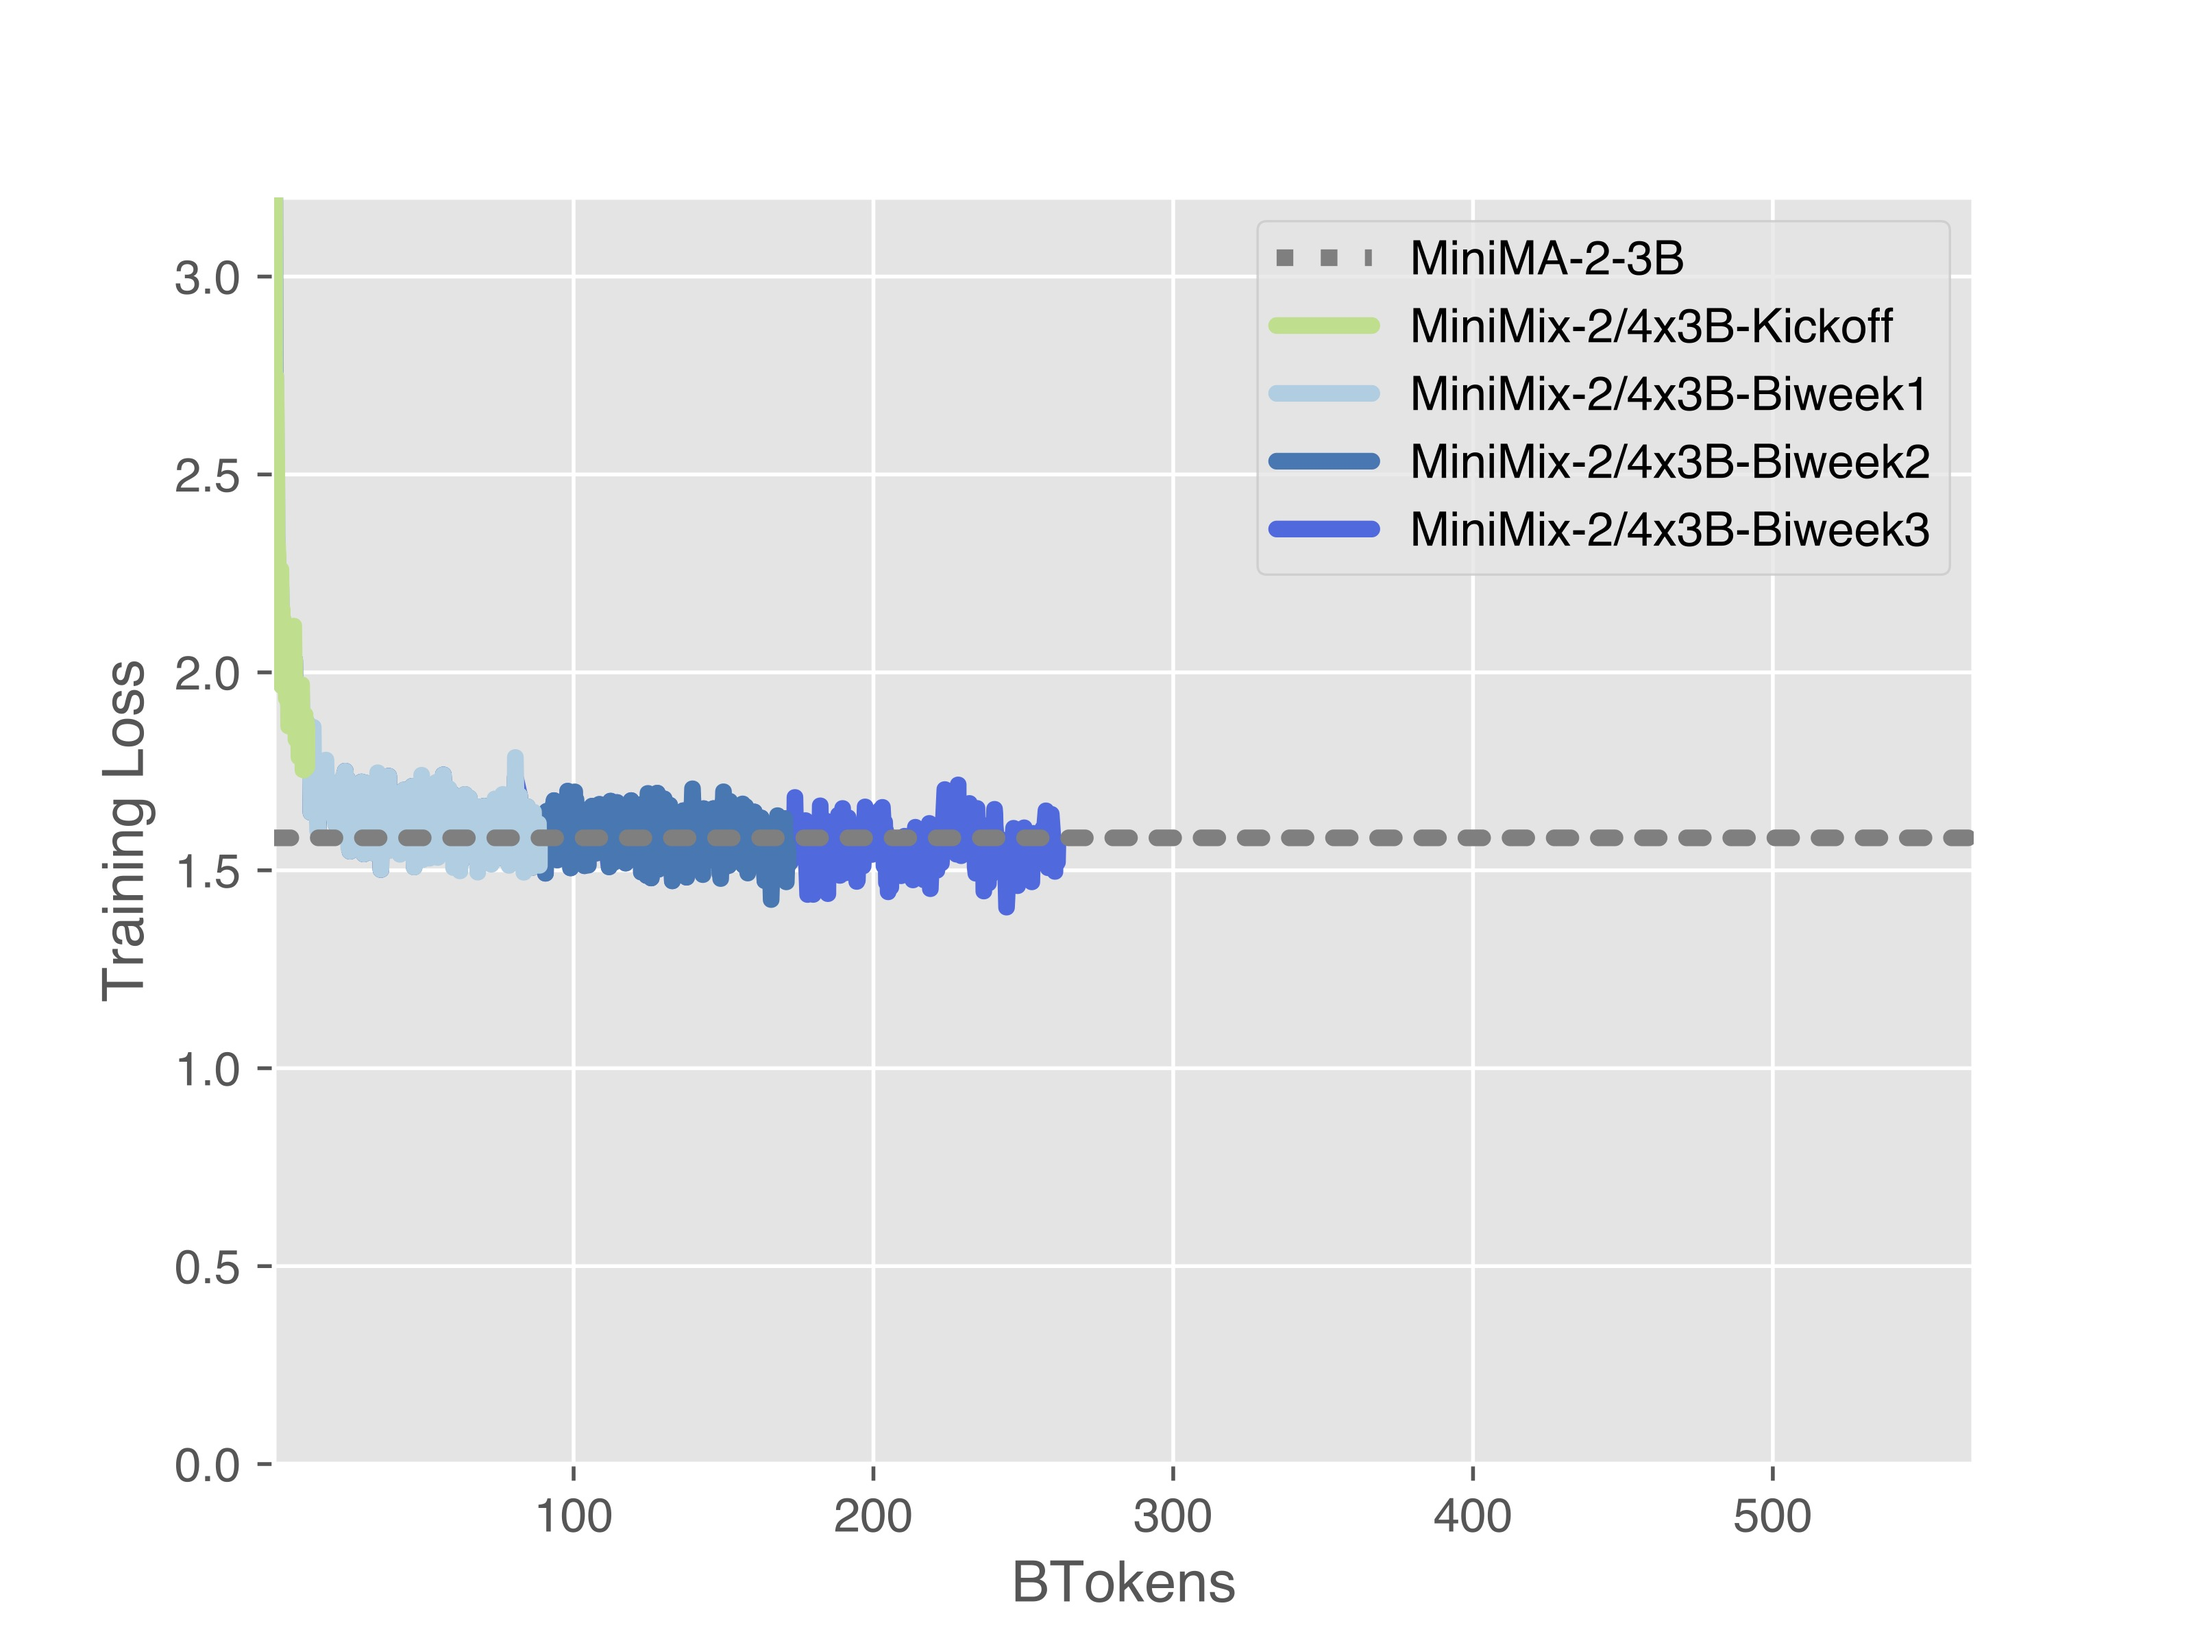
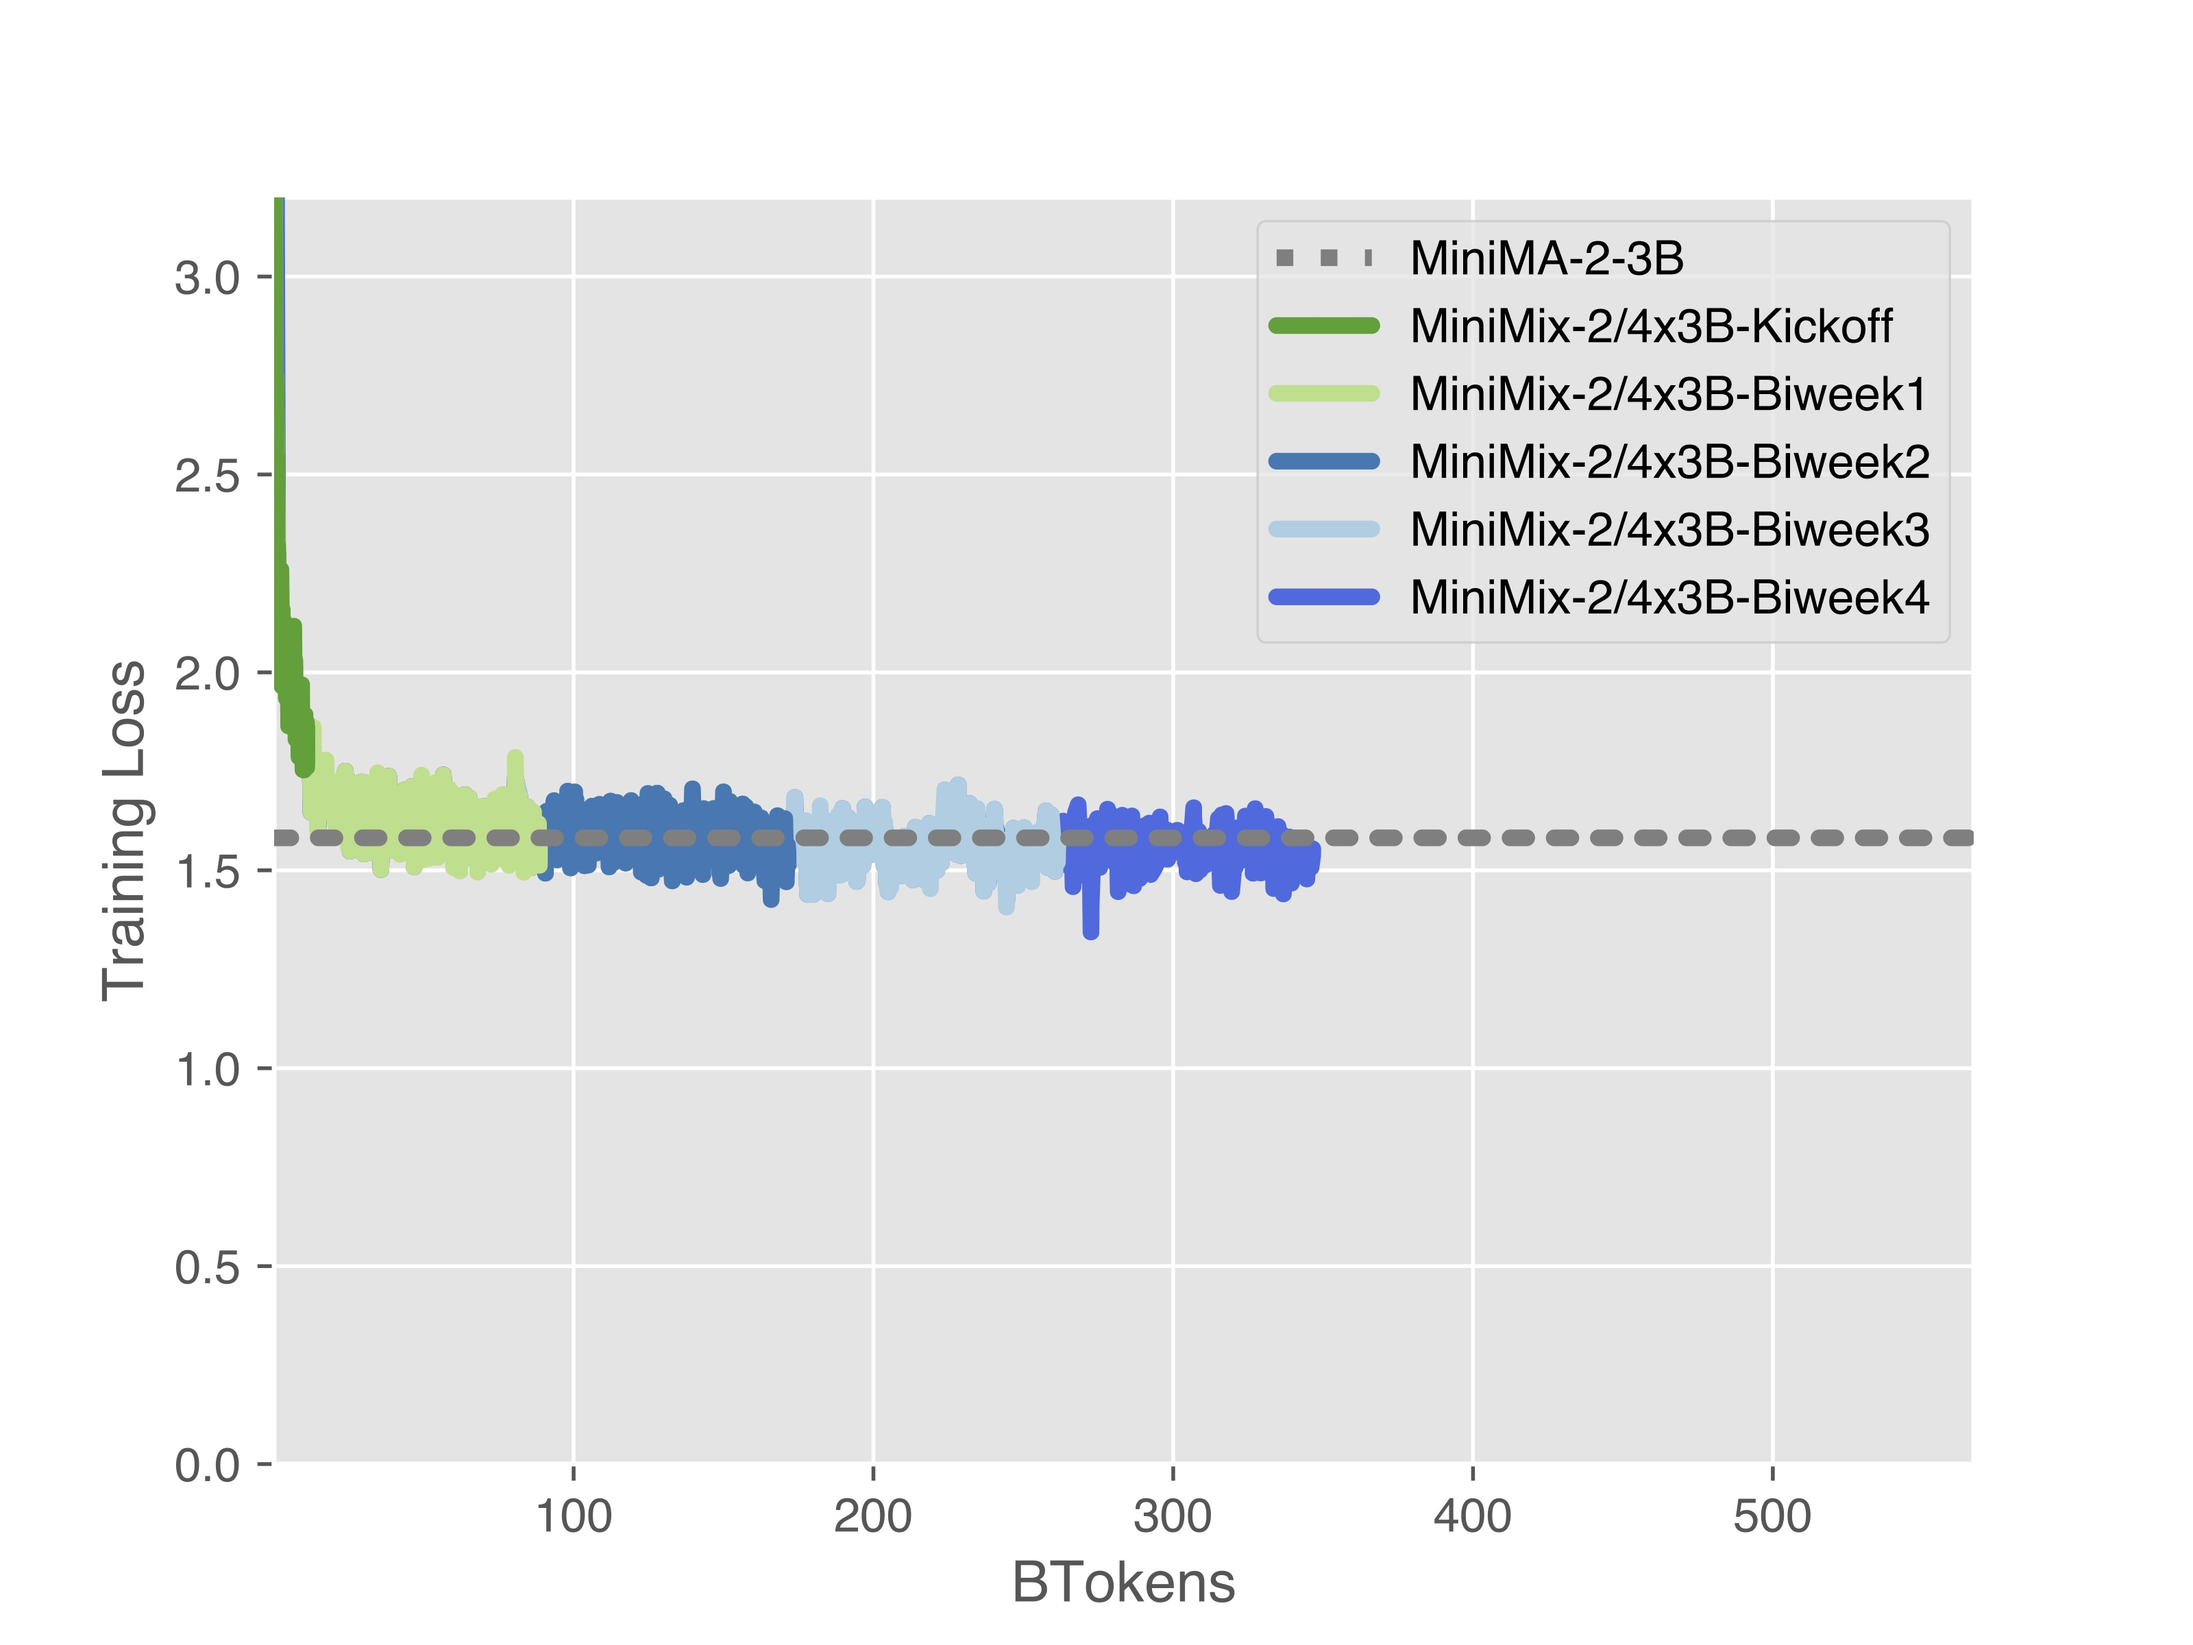
Update MiniMix

diff --git a/README.md b/README.md
@@ -71,16 +71,18 @@ However, the tale is not ever one-sided. Although a larger teacher LM has better
 
 ||TFLOPs|MMLU (5-shot)|CEval (5-shot)|DROP (3-shot)|HumanEval (0-shot)|BBH (3-shot)|GSM8K (8-shot)|
 |--|--|--|--|--|--|--|--|
-|Mixtral-8x7B-v0.1|336.0E9|70.50|53.94|57.74|32.32|48.79|59.59|
 |LLaMA-MoE-v1-3.5B-4_16|84.0+4.2E9|26.69|24.67|23.40|6.10|30.26|5.38|
-|DeepSeek-MoE-16B-base|33.6E|44.64|39.90|29.74|26.83|31.95|17.06|
+|DeepSeek-MoE-16B-base|33.6E9|44.64|39.90|29.74|26.83|31.95|17.06|
+|Qwen1.5-MoE-A2.7B|23.8+35.7E9|59.56|79.27|32.87|33.54|39.12|65.13|
 |Phixtral-2x2.8B|159.9E9|53.91|32.24|32.28|47.56|44.29|58.53|
+|Mixtral-8x7B-v0.1|336.0E9|70.50|53.94|57.74|32.32|48.79|59.59|
 ||
 |MiniMA-2-3B|13.4E9|40.14|44.65|23.10|14.63|31.43|8.87|
 |MiniMix-2/4x3B-Kickoff|+0.1E9|34.30|33.51|21.34|10.37|30.35|6.60|
 |MiniMix-2/4x3B-Biweek1|+2.0E9|41.17|41.75|27.24|15.85|32.17|14.25|
 |MiniMix-2/4x3B-Biweek2|+4.0E9|41.35|40.79|28.62|18.90|31.66|13.34|
 |MiniMix-2/4x3B-Biweek3|+6.0E9|41.58|44.21|30.68|17.68|32.91|16.07|
+|MiniMix-2/4x3B-Biweek4|+8.0E9|43.14|44.21|31.33|18.29|32.61|16.98|
 
 ## 📊 Performance
 
